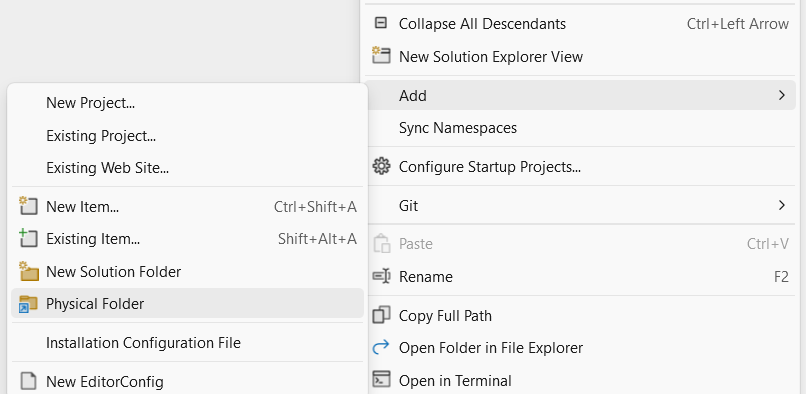
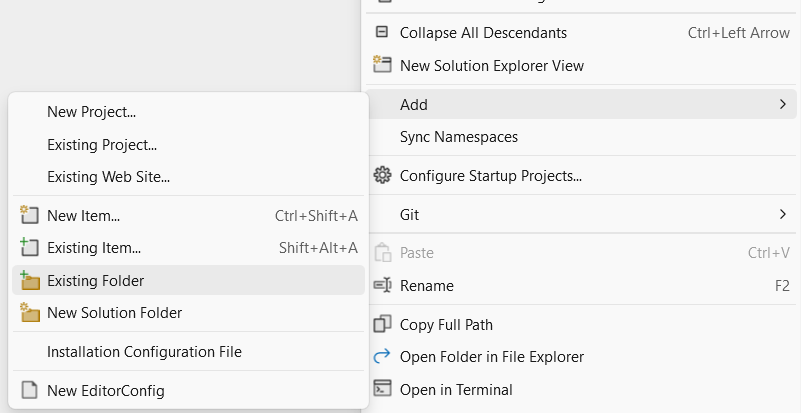
Renamed command to "Add Existing Folder" [release]

diff --git a/README.md b/README.md
@@ -17,7 +17,7 @@ Gives access to all files and folders from the file system under the repo- or so
 
 ![Animation](art/animation.gif) 
 
-Add any folder you want by right-clicking the solution node and select **Add > Physical Folder**.
+Add any folder you want by right-clicking the solution node and select **Add > Existing Folder**.
 
 ![Add Physical Folder](art/add-physical-folder.png)
 
